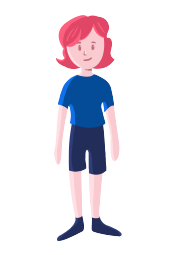
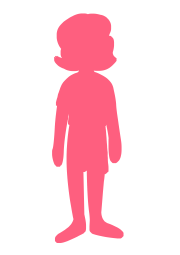
strokebilder

Changed region(s): [[0.2778, 0.0275, 0.6944, 0.9608]]

diff --git a/src/screens/getChild.js b/src/screens/getChild.js
@@ -8,6 +8,7 @@ import {
   diverseWaiter,
   diverseConsultant,
   child,
+  childStroke,
   noPic,
   femaleStroke,
   maleStroke,
@@ -75,7 +76,7 @@ function draw() {
   backBtn.display();
 
   childPicture.mouseOver(child);
-  childPicture.display(child);
+  childPicture.display(childStroke);
 
   if (player.sex === "f" && player.job.title === "Kellner*in") {
     hasChildPicture.mouseOver(femaleStroke);
